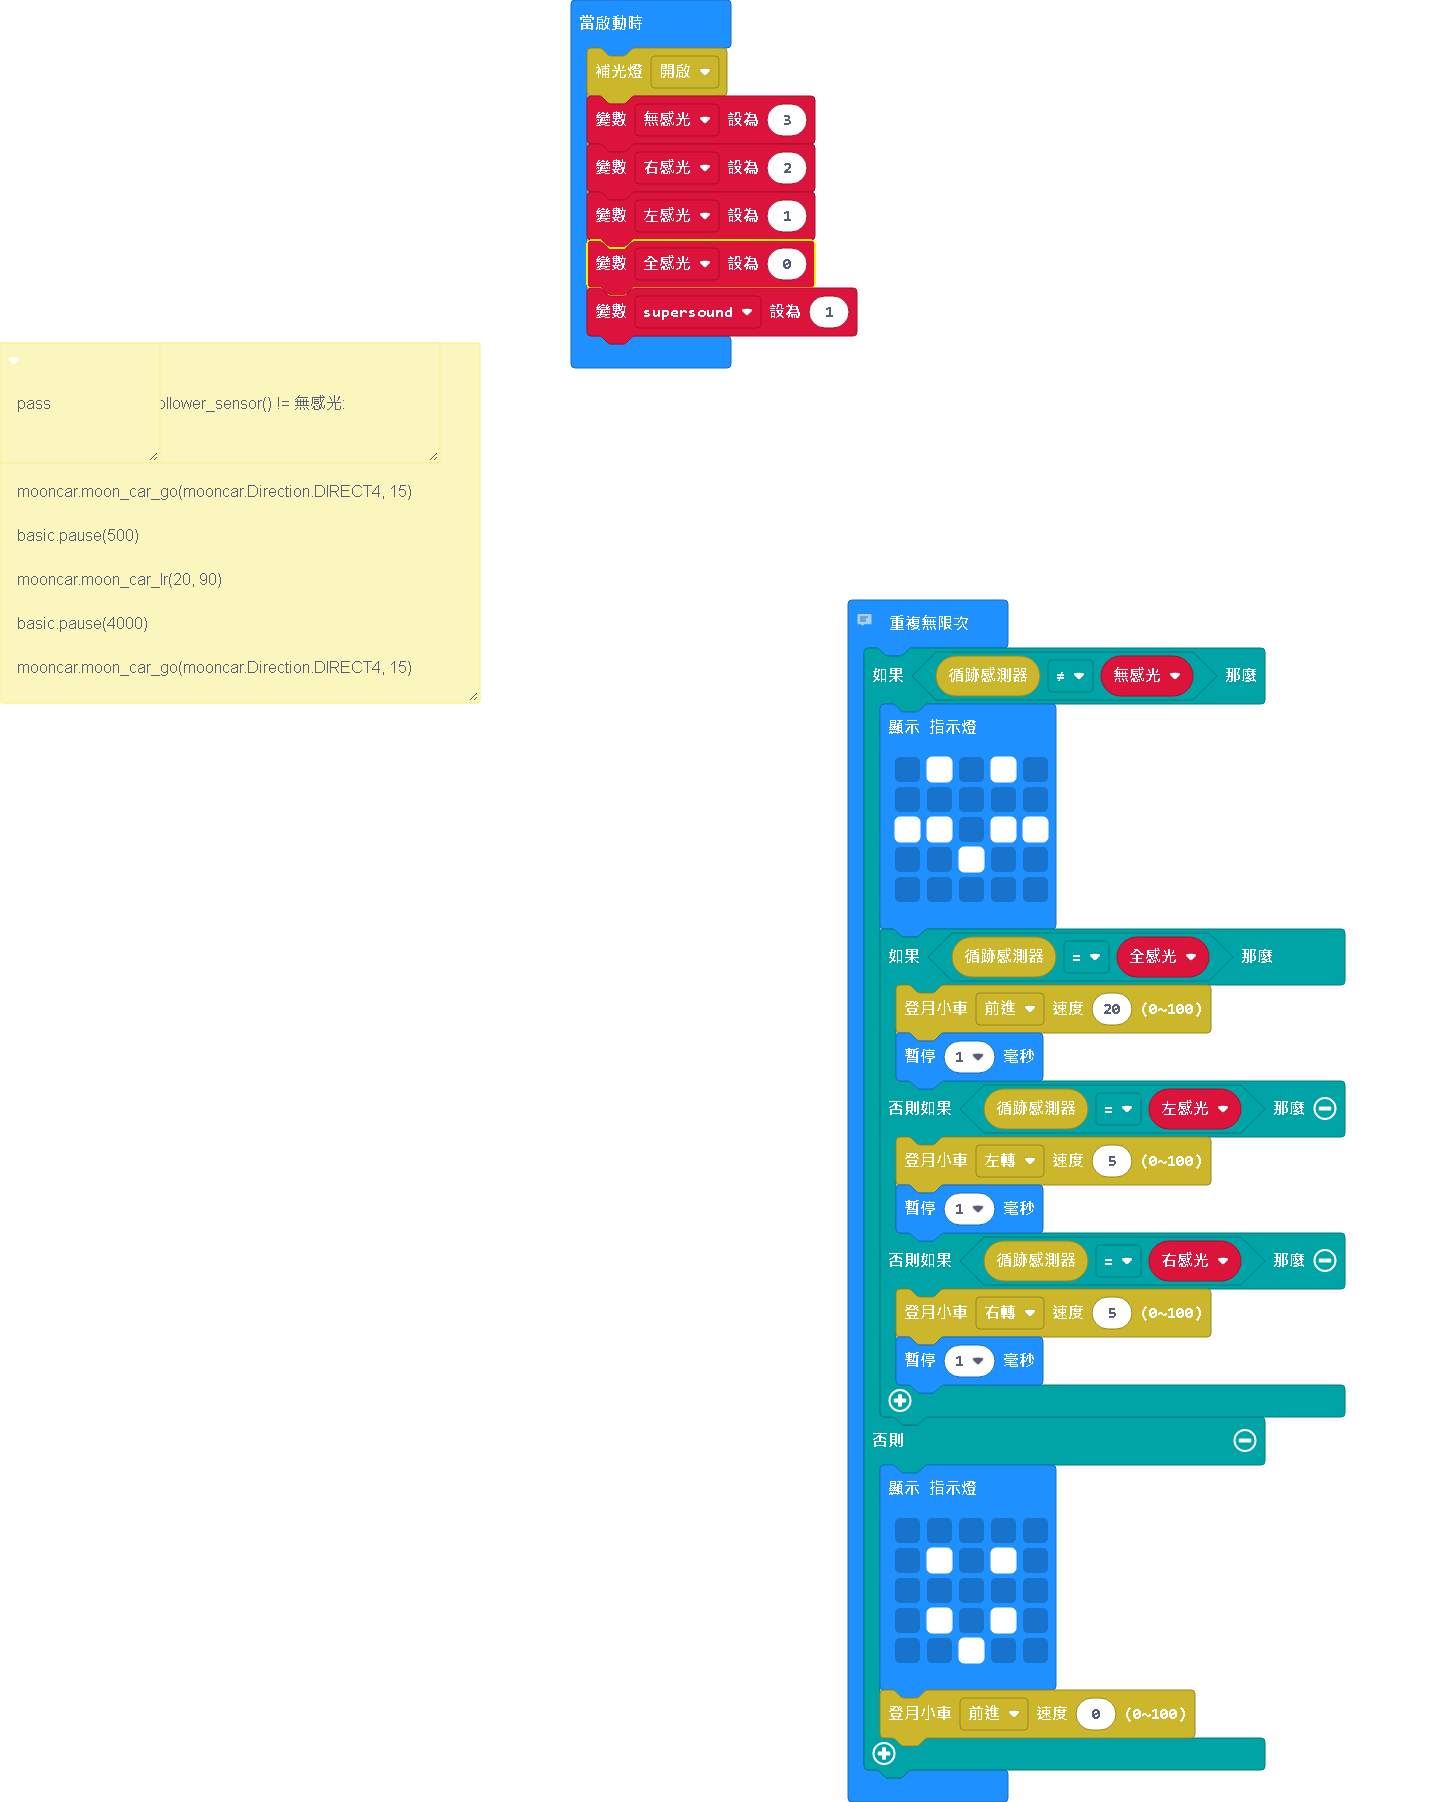
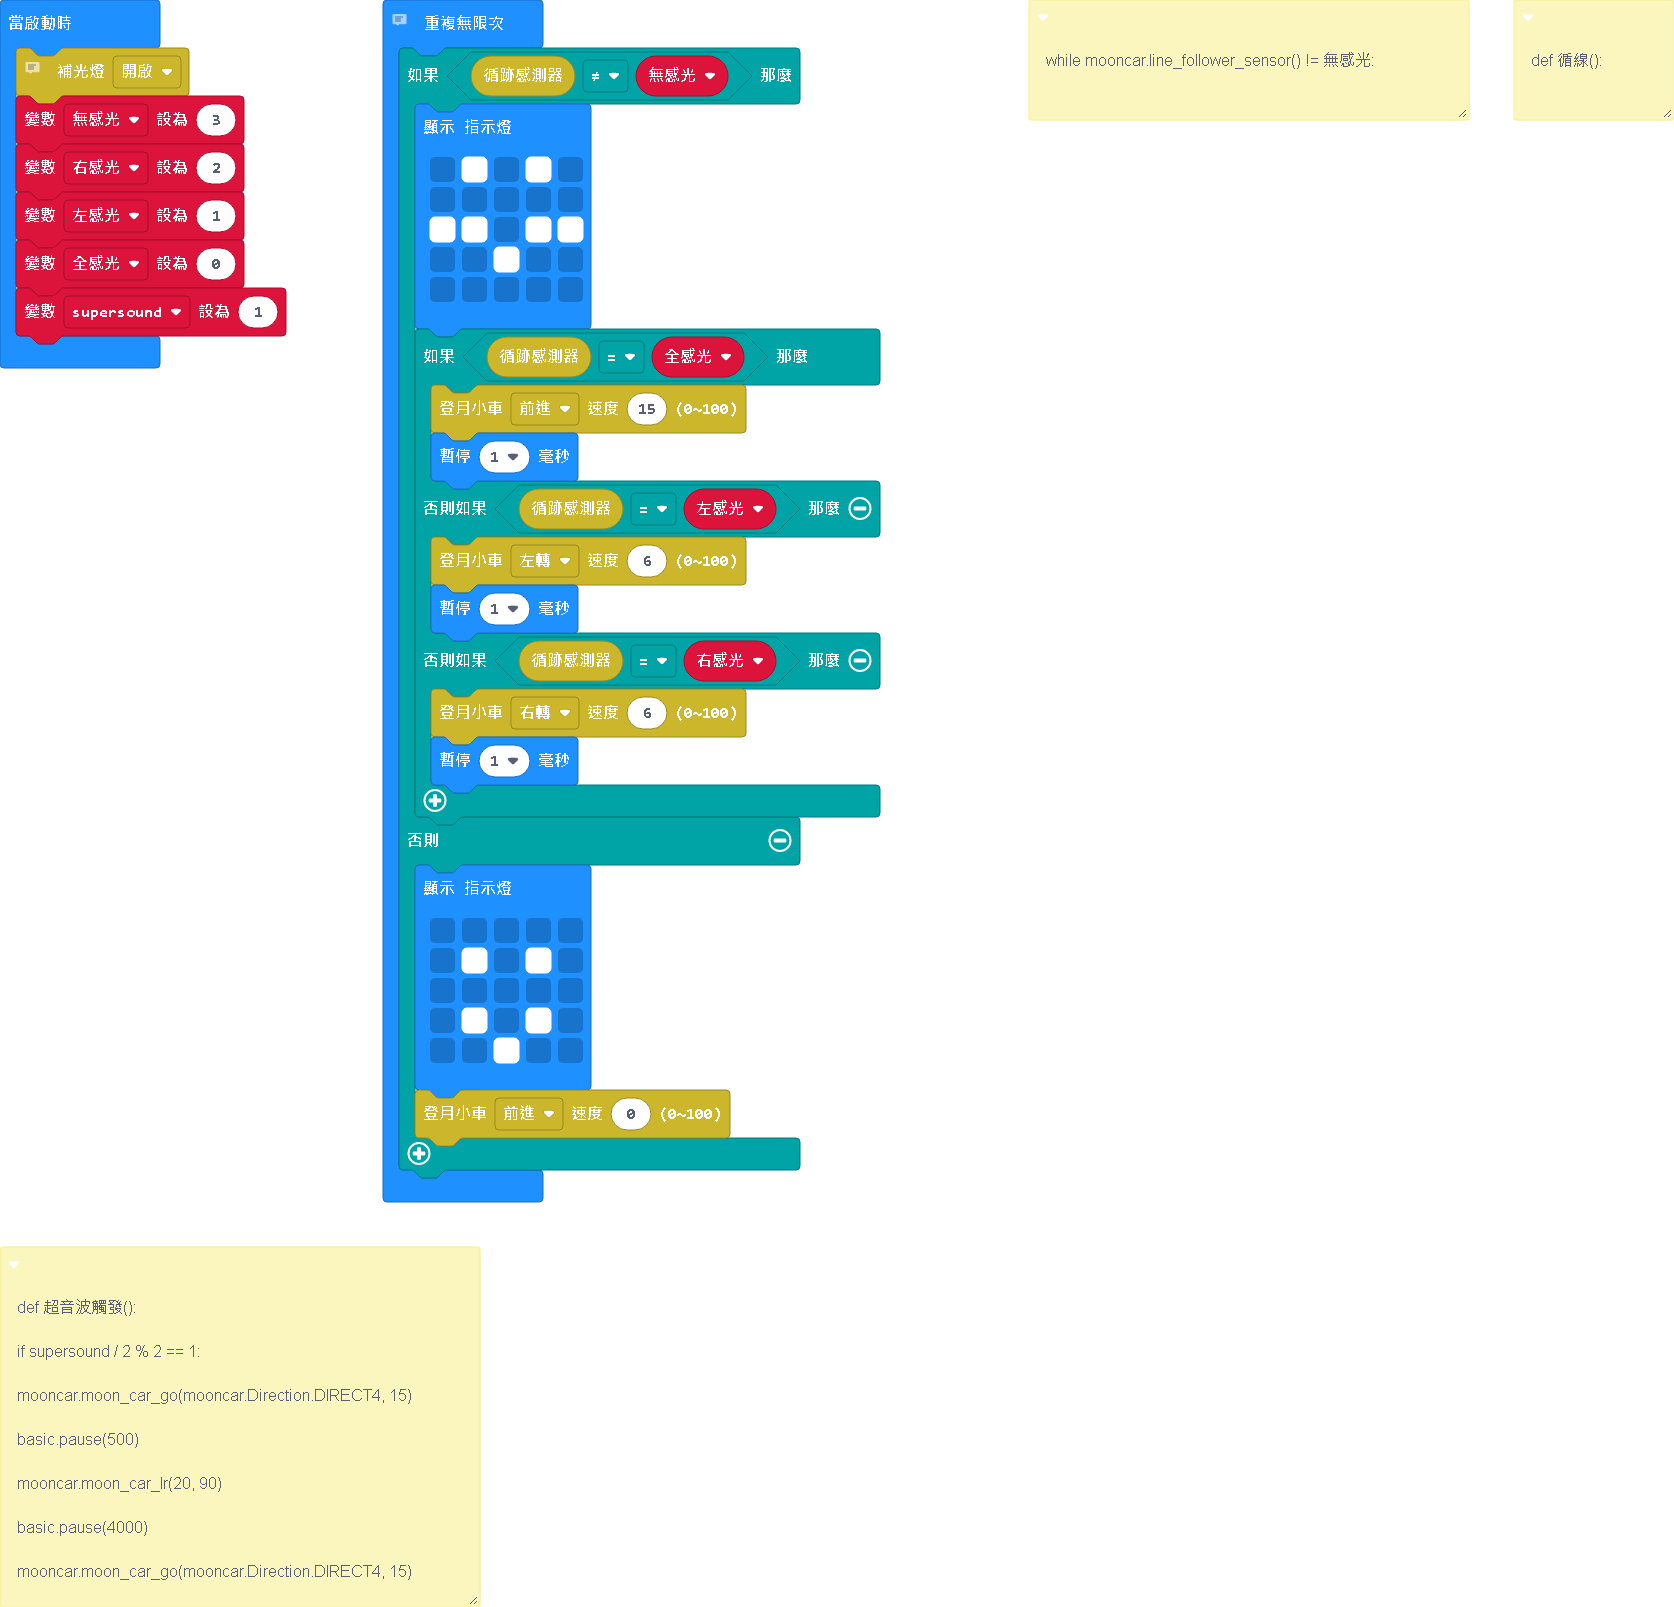
更新 main.blocks, main.ts, main.py

diff --git a/main.ts b/main.ts
@@ -1,4 +1,10 @@
 /**
+ * while mooncar.line_follower_sensor() != 無感光:
+ */
+/**
+ * def 循線():
+ */
+/**
  * def 超音波觸發():
  * 
  * if supersound / 2 % 2 == 1:
@@ -29,15 +35,7 @@
  * 
  * basic.pause(500)
  */
-/**
- * def 循線():
- */
-/**
- * while mooncar.line_follower_sensor() != 無感光:
- */
-/**
- * pass
- */
+// pass
 mooncar.Filllight(mooncar.Switch.Open)
 let 無感光 = 3
 let 右感光 = 2
@@ -60,13 +58,13 @@ basic.forever(function () {
             . . . . .
             `)
         if (mooncar.LineFollowerSensor() == 全感光) {
-            mooncar.MoonCarGo(mooncar.Direction.direct1, 20)
+            mooncar.MoonCarGo(mooncar.Direction.direct1, 15)
             basic.pause(1)
         } else if (mooncar.LineFollowerSensor() == 左感光) {
-            mooncar.MoonCarGo(mooncar.Direction.direct3, 5)
+            mooncar.MoonCarGo(mooncar.Direction.direct3, 6)
             basic.pause(1)
         } else if (mooncar.LineFollowerSensor() == 右感光) {
-            mooncar.MoonCarGo(mooncar.Direction.direct4, 5)
+            mooncar.MoonCarGo(mooncar.Direction.direct4, 6)
             basic.pause(1)
         }
     } else {

diff --git a/main.py b/main.py
@@ -1,5 +1,15 @@
 """
 
+while mooncar.line_follower_sensor() != 無感光:
+
+"""
+"""
+
+def 循線():
+
+"""
+"""
+
 def 超音波觸發():
 
 if supersound / 2 % 2 == 1:
@@ -31,21 +41,7 @@ mooncar.moon_car_go(mooncar.Direction.DIRECT3, 15)
 basic.pause(500)
 
 """
-"""
-
-def 循線():
-
-"""
-"""
-
-while mooncar.line_follower_sensor() != 無感光:
-
-"""
-"""
-
-pass
-
-"""
+# pass
 mooncar.filllight(mooncar.Switch.OPEN)
 無感光 = 3
 右感光 = 2
